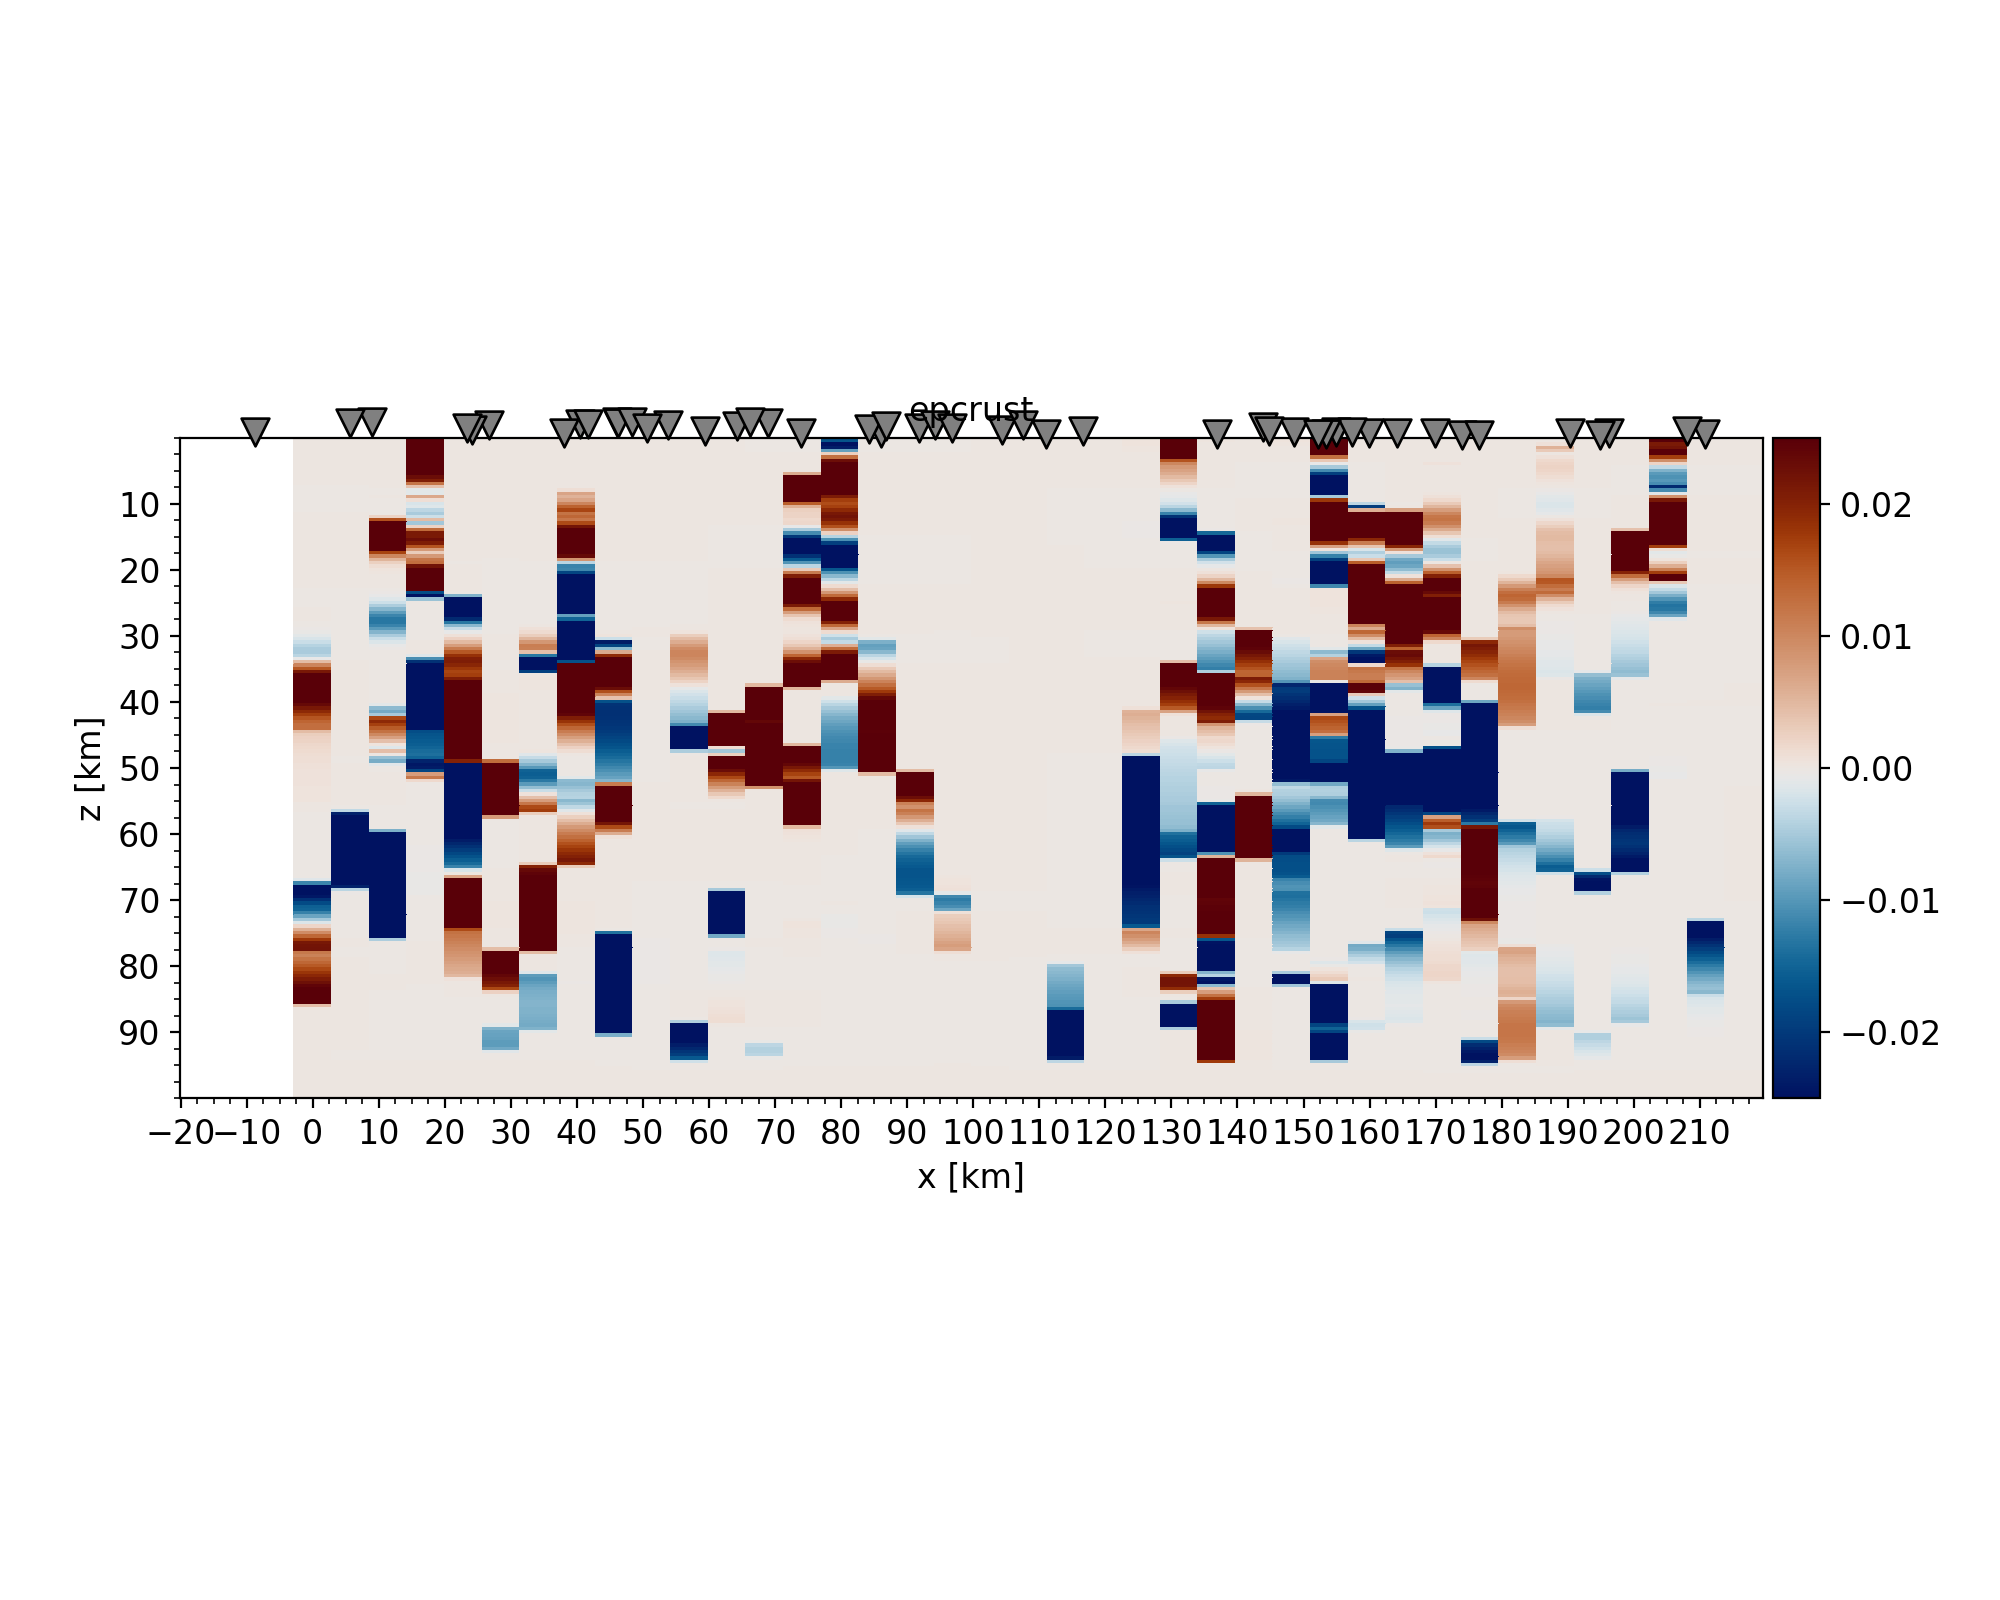
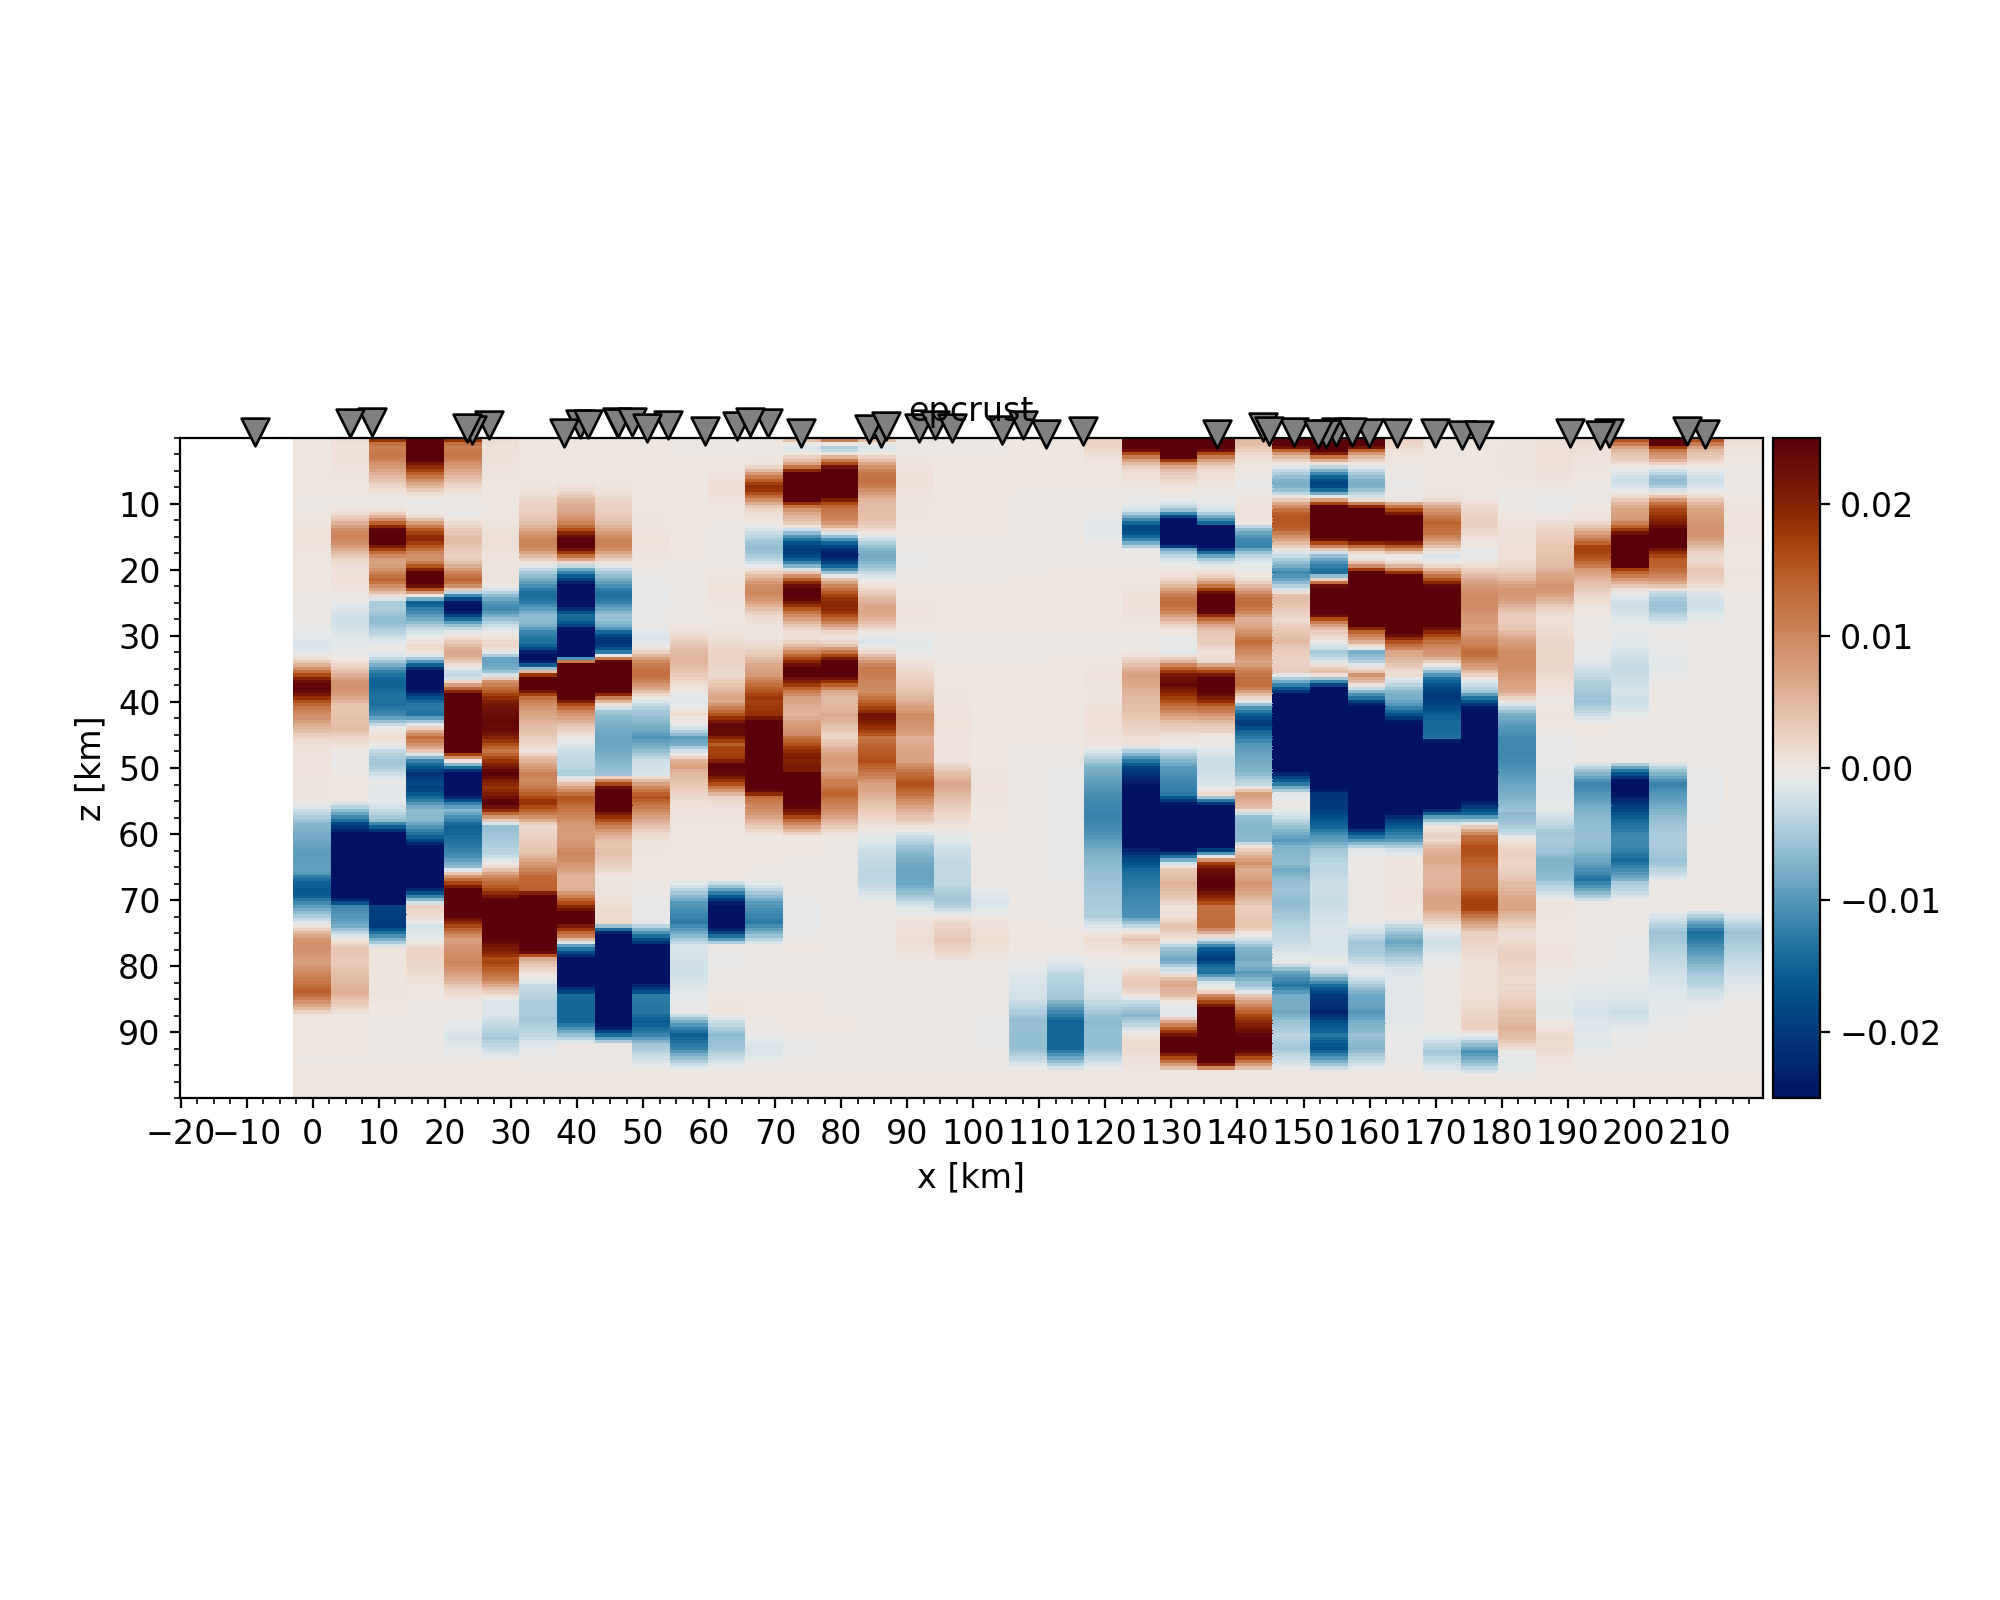
trying different values for parameters in ccpFilter function

Changed region(s): [[0.496, 0.25, 0.899, 0.6875], [0.124, 0.25, 0.496, 0.6875]]

diff --git a/rfmpy/run_examples/compute_RF_migration_spher.py b/rfmpy/run_examples/compute_RF_migration_spher.py
@@ -39,7 +39,7 @@ else:
 # Define paths
 work_dir = os.getcwd()
 path = work_dir + "/data/RF/RF/"
-# path = desktop_dir + "/RF_test/RF/"
+path = desktop_dir + "/RF_test/RF/"
 # path='/media/kmichailos/SEISMIC_DATA/RF_calculations/RF/'
 # path='/media/kmichailos/SEISMIC_DATA/RF_calculations/RF_low_quality/'
 #################
@@ -173,7 +173,7 @@ def ccp_smooth(G2, migration_param_dict):
     zz = np.arange(minz, maxz + pasz, pasz)
     zbegin_lisse = -5
     # pasx is in degrees so we modify the line below
-    l0 = 1/111.11
+    l0 = 1./111.11
     # dl = 1000000
     # dl = 100
     with np.errstate(divide="warn"):
@@ -207,7 +207,7 @@ def ccpFilter(G2):
 
     nbm = 7
     b, a = 3, 1.5
-    sigma = 0.18
+    sigma = 0.5
     C = np.zeros((nbm, nbm))
     mm = np.floor(nbm / 2)
     for i in range(nbm):
@@ -232,6 +232,8 @@ plot_migration_sphr.plot_migration_profile(Gp=G2, xx=xx, zz=zz, migration_param_
 
 ######################################################################################
 ######################################################################################
+
+
 # Manually pick moho deps
 plot_migration_sphr.moho_picker(Gp=G2, xx=xx, zz=zz, migration_param_dict=m_params,
                                 sta=sta, work_directory=work_dir, profile=profile_A)
